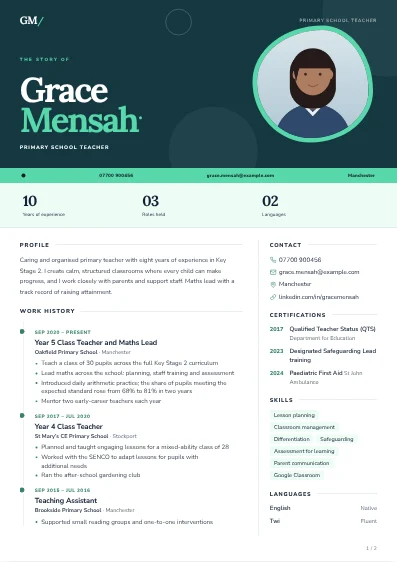
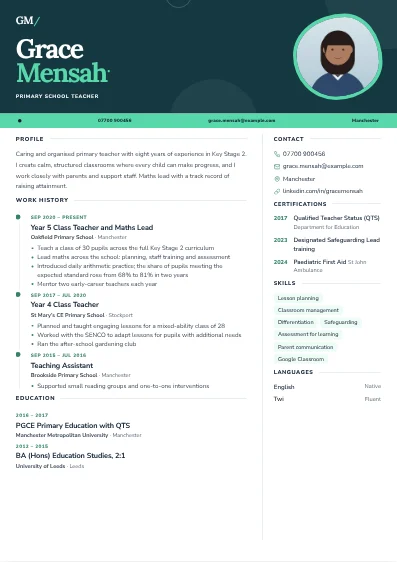
Cover designs: drop the corner headline that overlapped the tilted portrait frame
Claude-Session: https://claude.ai/code/session_01L77Rmev6oLepa9gLETUpxP

Changed region(s): [[0.0, 0.0, 1.0, 0.9377], [0.9068, 0.6655, 0.9673, 0.726], [0.9068, 0.8772, 0.937, 0.9377]]

diff --git a/src/modules/templates/graphic/cover.tsx b/src/modules/templates/graphic/cover.tsx
@@ -119,11 +119,6 @@ export function coverTemplate(c: CoverConfig): CatalogueTemplate {
             <Portrait model={model} className="co-photo" />
           </div>
           <Monogram model={model} star="/" />
-          {model.headline && (
-            <p className="co-corner" aria-hidden="true">
-              {model.headline}
-            </p>
-          )}
         </div>
         <div className="co-strip">
           <span className="co-strip-dot" aria-hidden="true" />
@@ -149,13 +144,11 @@ export function coverTemplate(c: CoverConfig): CatalogueTemplate {
 .co-dark{position:relative;height:calc(89mm * (.42 + .58 * var(--fit-gap)));background:var(--g-ink);color:#fff;overflow:hidden;padding:0 var(--margin)}
 html[data-fit-compact] .co-dark{height:60mm}
 html[data-fit-compact] .co-eyebrow{display:none}
-html[data-fit-compact] .co-corner{display:none}
 html[data-fit-compact] .co-frame{zoom:.74}
 html[data-fit-compact] .co-id{top:12mm;bottom:7mm}
 html[data-fit-compact] .co-name{font-size:calc(40pt * var(--ns,1))}
 .co-art{position:absolute;inset:0;width:100%;height:100%}
 .co-head .g-mono{position:absolute;left:var(--margin);top:8mm;color:#fff}
-.co-corner{position:absolute;right:var(--margin);top:9mm;font-size:6.8pt;letter-spacing:.1em;text-transform:uppercase;color:rgba(255,255,255,.75);max-width:60mm;text-align:right}
 .co-id{position:absolute;left:var(--margin);right:86mm;top:19mm;bottom:9mm;display:flex;flex-direction:column;justify-content:flex-end}
 .co-eyebrow{font-size:6.8pt;font-weight:800;letter-spacing:.1em;text-transform:uppercase;color:var(--g-hot);margin-bottom:6mm}
 .co-name{font-family:var(--g-display);font-weight:800;font-size:calc(52pt * var(--ns,1) * (.8 + .2 * var(--fit-gap)));line-height:.88;letter-spacing:-.06em;${c.caps ? 'text-transform:uppercase;' : ''}color:#fff;overflow-wrap:anywhere}
